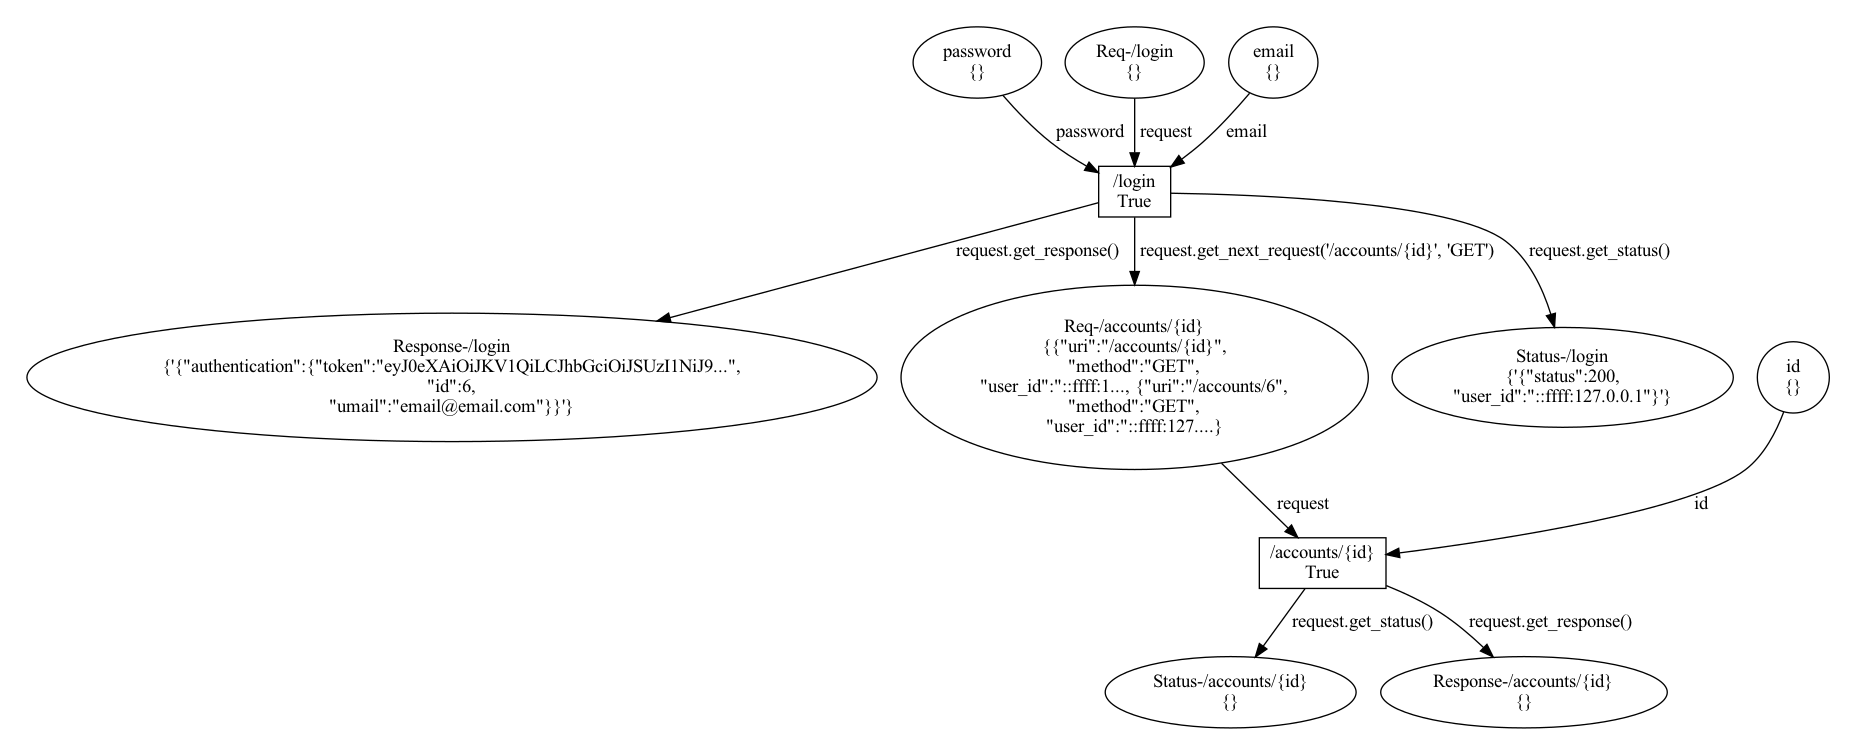
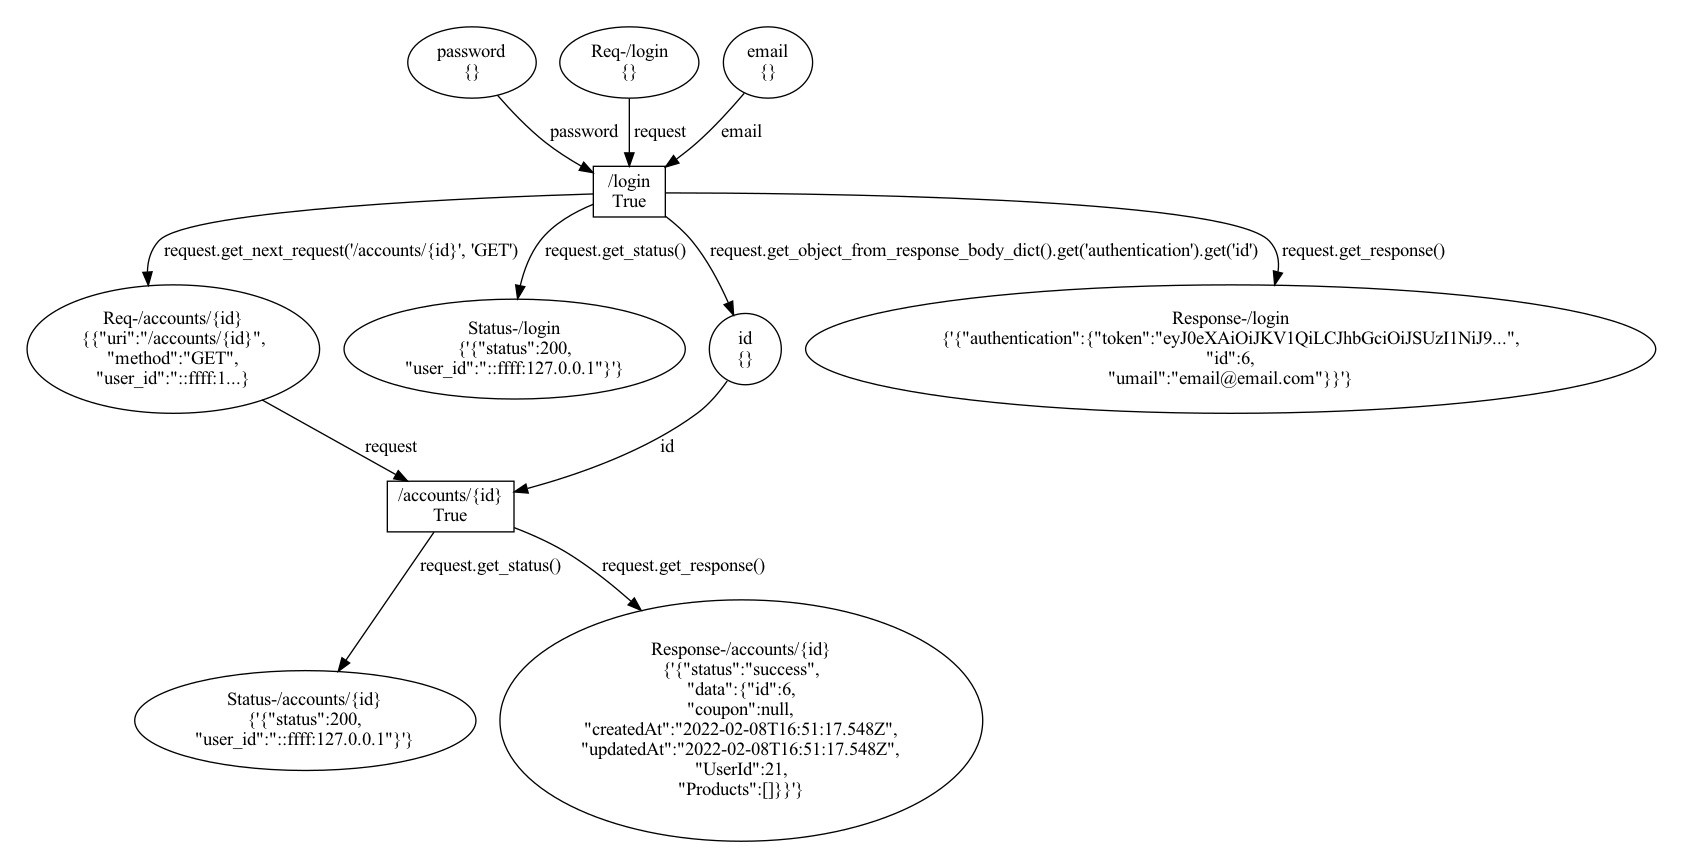
feat: create link arc for inputs and format files

diff --git a/OpenAPI2PetriNet.py b/OpenAPI2PetriNet.py
@@ -1,27 +1,28 @@
 import snakes.plugins
 from ColouredToken import ColouredToken, RequestResponseToken
 from prance import ResolvingParser
+
 snakes.plugins.load("gv", "snakes.nets", "nets")
 from utils.log_utils import LogUtils
 from utils.string_utils import StringUtils
-from nets import PetriNet, Place, Expression, Transition, Variable # added here to mute warnings
+from utils.constants import RESPONSE_BODY
+from nets import PetriNet, Place, Expression, Transition, Variable  # added here to mute warnings
 from nets import *
 
 
 class OpenAPI2PetriNet:
-
     parser = ''
     petri_net = None
 
     def get_parser(self):
         return self.parser
 
-    def __init__ (self, path) :
+    def __init__(self, path):
         self.parser = ResolvingParser(path)
 
     def create_petri_net(self, name, create_links=True):
         petri_net = PetriNet(name)
-        
+
         spec = self.parser.specification
         paths = spec.get('paths')
 
@@ -30,10 +31,9 @@ class OpenAPI2PetriNet:
             # transition 1
             # creating basic structure
             transition = self.create_transition_and_basic_places(petri_net, uri)
-        
+
             # cheking the OperationObjects
             for operation_object_key, operation_object_value in path_value.items():
-
                 requestBody = operation_object_value.get('requestBody')
                 self.handle_request_body(petri_net, transition, requestBody)
 
@@ -49,7 +49,6 @@ class OpenAPI2PetriNet:
 
         return petri_net
 
-
     def create_link_arcs(self):
         spec = self.parser.specification
         for path_key, path_value in spec.get('paths').items():
@@ -62,15 +61,31 @@ class OpenAPI2PetriNet:
                 if (links):
                     for link in links:
                         for link_key, link_value in link.items():
+                            # create arc to the next req place
                             operation_id = link_value.get('operationId')
                             req_place = self.get_req_place_by_operation_id(operation_id)
                             nex_transition_name = req_place.name.replace('Req-', '')
                             next_http_method = self.get_http_method_by_operation_id(operation_id)
                             self.petri_net.add_output(req_place.name, transition.name,
-                                                 Expression(f"request.get_next_request('{nex_transition_name}', '{next_http_method}')"))
-
+                                                      Expression(
+                                                          f"request.get_next_request('{nex_transition_name}', '{next_http_method}')"))
+                            # create arc to the following input
+                            ((parameter_id, parameter_value),) = link_value.get('parameters').items()
+                            input_place = self.get_place_by_name(parameter_id)
+                            if RESPONSE_BODY in parameter_value:
+                                expression_str = 'request.get_object_from_response_body_dict()'
+                                for parameter_value_parts in parameter_value \
+                                        .replace(RESPONSE_BODY, '') \
+                                        .split('.'):
+                                    expression_str = expression_str + f'.get(\'{parameter_value_parts}\')'
+                            self.petri_net.add_output(input_place.name, transition.name, Expression(expression_str))
 
     def get_req_place_by_operation_id(self, operation_id):
+        """
+        Not all places have operationId. Only the Req places
+        :param operation_id: operationId according the OpenAPI documentation
+        :return: a place according to the operation_id
+        """
         spec = self.parser.specification
         for path_key, path_value in spec.get('paths').items():
             uri = path_key
@@ -82,7 +97,6 @@ class OpenAPI2PetriNet:
                         raise Exception(f'Req Place not found to uri={uri}')
                     return req_place
 
-
     def get_http_method_by_operation_id(self, operation_id):
         spec = self.parser.specification
         for path_key, path_value in spec.get('paths').items():
@@ -91,7 +105,6 @@ class OpenAPI2PetriNet:
                 operationId = operation_object_value.get('operationId')
                 if operationId == operation_id:
                     return operation_object_key.upper()
-
 
     def extract_links_from_responses(self, responses):
         links_set = []
@@ -102,15 +115,14 @@ class OpenAPI2PetriNet:
                     links_set.append(links)
         return links_set
 
-
     def create_transition_and_basic_places(self, petri_net, uri_login):
-        place_req = Place("Req-"+uri_login, [])
+        place_req = Place("Req-" + uri_login, [])
 
         # creating transition
         transition = Transition(uri_login)
 
         # creating outputs to the transition
-        place_status = Place("Status-"+uri_login, [])
+        place_status = Place("Status-" + uri_login, [])
 
         # conecting places to the transtion
         petri_net.add_place(place_req)
@@ -120,7 +132,6 @@ class OpenAPI2PetriNet:
         petri_net.add_output(place_status.name, transition.name, Expression("request.get_status()"))
 
         return transition
-
 
     def handle_responses(self, petri_net, uri, transition, responses):
         if (responses):
@@ -133,12 +144,10 @@ class OpenAPI2PetriNet:
                     petri_net.add_place(place)
                     petri_net.add_output(place.name, transition.name, Expression("request.get_response()"))
 
-
     def handle_parameters(self, petri_net, transition, parameters):
         if (parameters):
             for parameter in parameters:
                 self.create_place_and_connect_as_input(petri_net, transition, parameter.get('name'))
-
 
     def handle_request_body(self, petri_net, transition, requestBody):
         if (requestBody):
@@ -152,7 +161,7 @@ class OpenAPI2PetriNet:
                         properties = schema.get('properties')
                         for property_key, property_value in properties.items():
                             property_name = property_key
-                                    #property_type = property_value.get('type')
+                            # property_type = property_value.get('type')
                             self.create_place_and_connect_as_input(petri_net, transition, property_name)
 
     def create_place_and_connect_as_input(self, petri_net, transition, property_name):
@@ -164,7 +173,6 @@ class OpenAPI2PetriNet:
         place = Place(property_name, [])
         petri_net.add_place(place)
         petri_net.add_output(place.name, transition.name, Variable(property_name))
-
 
     def get_place_by_name(self, name):
         response = [x for x in self.petri_net.place() if x.name == name]
@@ -202,11 +210,8 @@ class OpenAPI2PetriNet:
                 return response[0]
         return None
 
-
     def create_name_to_req_place(self, uri):
         return f'Req-{uri}'
-
-        
 
     # def fill_input_places(self, petri_net, log_json):
     #     if (log_json.get('uri') in [x.name for x in petri_net.transition()]):
@@ -235,7 +240,7 @@ class OpenAPI2PetriNet:
     #                 place.tokens.add(ColouredToken(LogUtils.create_request_line_from_log(log_json)))
 
     def place_is_output(self, petri_net, place):
-        #import ipdb; ipdb.set_trace()
+        # import ipdb; ipdb.set_trace()
         transitions = petri_net.transition()
         for transition in transitions:
             for output in transition.output():
@@ -244,20 +249,18 @@ class OpenAPI2PetriNet:
 
         return False
 
-
-
     def fill_input_places(self, log_json):
         for transition in self.petri_net.transition():
-            if (StringUtils.compare_uri_with_model(transition.name, log_json.get('uri') )):
+            if (StringUtils.compare_uri_with_model(transition.name, log_json.get('uri'))):
                 # setting tokens related to RequestLine
-                place_req_name='Req-'+log_json.get('uri')
+                place_req_name = 'Req-' + log_json.get('uri')
                 place = self.get_place_by_name(place_req_name)
                 if place:
                     place.tokens.add(ColouredToken(LogUtils.create_request_line_from_log(log_json)))
 
                     # given a transistion, check if we have some input to set
                     # setting tokens related to requestBody
-                    request_body_parameter_names = [*log_json.get('requestBody').keys()] # convert dict to array
+                    request_body_parameter_names = [*log_json.get('requestBody').keys()]  # convert dict to array
                     transition = self.get_transition_by_name(log_json.get('uri'))
                     places = transition.input()
                     for parameter_name in request_body_parameter_names:
@@ -266,7 +269,7 @@ class OpenAPI2PetriNet:
                             if self.place_is_output(self.petri_net, place[0]):
                                 continue
                             if place[0].name == parameter_name:
-                                place[0].add(ColouredToken(LogUtils.create_data_from_request_body_in_log(log_json, parameter_name)))
+                                place[0].add(ColouredToken(
+                                    LogUtils.create_data_from_request_body_in_log(log_json, parameter_name)))
                                 break
                     # setting tokens related to parameters
-        

diff --git a/utils/constants.py b/utils/constants.py
@@ -1,0 +1,1 @@
+RESPONSE_BODY = '$response.body#/'
